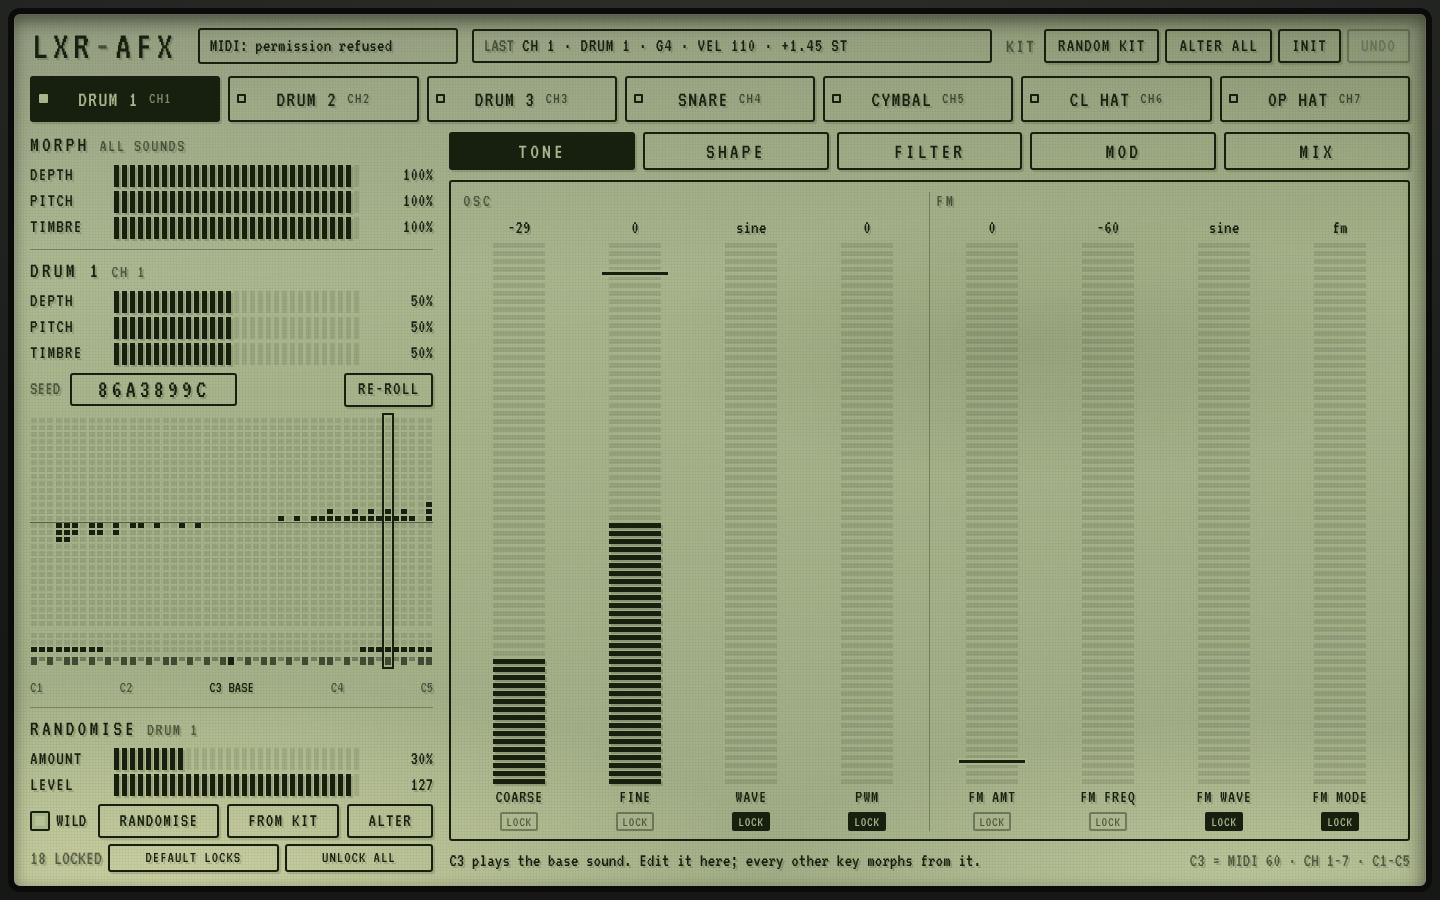
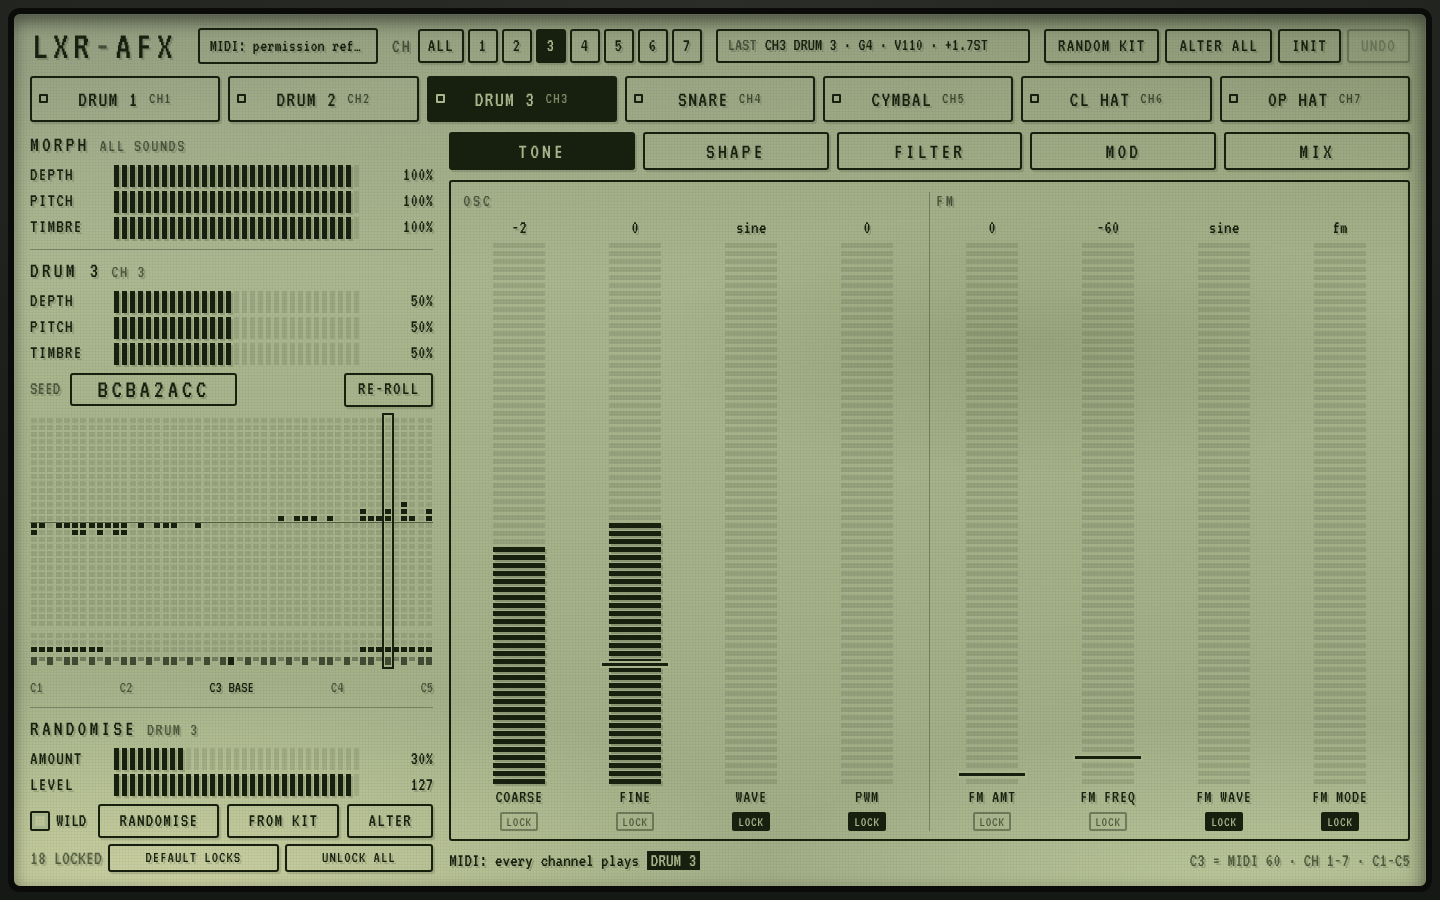
MIDI channel setter at the top: ALL, or one sound for every incoming note
Claude-Session: https://claude.ai/code/session_018ENZqU77miybkZNfffD9E3

diff --git a/app/main.js b/app/main.js
@@ -24,13 +24,14 @@ const S = {
   locks: defaultLocks(),
   rand: { amount: 30, wild: false },
   sel: 0, page: 0,
+  midiCh: 0, // 0: channels 1-7 play the seven sounds; 1-7: every note, on any channel, plays that sound
 };
 try {
   const d = JSON.parse(localStorage.getItem(STORE));
   if (d && d.values && d.values.length === NUM_PARAMS) {
     S.values = Uint8Array.from(d.values); S.defaults = Uint8Array.from(d.defaults || d.values);
     Object.assign(S.global, d.global); d.sounds.forEach((s, i) => Object.assign(S.sounds[i], s));
-    S.locks = new Set(d.locks); Object.assign(S.rand, d.rand); S.sel = d.sel | 0; S.page = d.page | 0;
+    S.locks = new Set(d.locks); Object.assign(S.rand, d.rand); S.sel = d.sel | 0; S.page = d.page | 0; S.midiCh = d.midiCh | 0;
   }
 } catch (e) { /* first visit, or storage blocked */ }
 let saveT = 0;
@@ -39,7 +40,7 @@ const save = () => {
   saveT = setTimeout(() => {
     try {
       localStorage.setItem(STORE, JSON.stringify({ values: [...S.values], defaults: [...S.defaults], global: S.global, sounds: S.sounds,
-        locks: [...S.locks], rand: S.rand, sel: S.sel, page: S.page }));
+        locks: [...S.locks], rand: S.rand, sel: S.sel, page: S.page, midiCh: S.midiCh }));
     } catch (e) { /* storage blocked: it just isn't kept */ }
   }, 300);
 };
@@ -98,6 +99,7 @@ function onMidi(e) {
   noteOn(ch, note, vel);
 }
 function noteOn(ch, note, vel) {
+  if (S.midiCh) ch = S.midiCh; // the channel setter: any channel plays the chosen sound
   if (ch < 1 || ch > 7) { showLastText(`CH ${ch} · ${noteName(note)} · not a sound channel (1-7)`); return; }
   if (note < LOW_NOTE || note > HIGH_NOTE) { showLastText(`CH ${ch} · ${noteName(note)} · outside C1-C5`); return; }
   play(ch - 1, note, vel);
@@ -114,6 +116,21 @@ async function startMidi() {
     midi.onstatechange = hook; hook();
   } catch (err) { midiStatus('MIDI: permission refused'); }
 }
+// the channel setter at the top: ALL, or one sound for every incoming note (choosing one also opens it in the editor)
+const chBtns = [0, 1, 2, 3, 4, 5, 6, 7].map((c) => {
+  const b = document.createElement('button'); b.type = 'button'; b.className = 'btn' + (c ? '' : ' all');
+  b.textContent = c ? String(c) : 'ALL'; b.setAttribute('role', 'radio');
+  b.title = c ? `Every note, on any MIDI channel, plays ${SOUNDS[c - 1].name}` : 'MIDI channels 1-7 play the seven sounds';
+  b.addEventListener('click', () => setMidiCh(c));
+  $('chsel').append(b);
+  return b;
+});
+function setMidiCh(c) {
+  S.midiCh = c; save();
+  chBtns.forEach((b, i) => b.setAttribute('aria-pressed', i === c));
+  if (c) select(c - 1);
+  detail(c ? `MIDI: every channel plays <em>${SOUNDS[c - 1].name}</em>` : 'MIDI: channels 1-7 play the seven sounds');
+}
 // for testing without a controller: afx.noteOn(channel, note, velocity) from the console
 window.afx = { noteOn: (ch, note, vel = 100) => noteOn(ch, note, vel) };
 
@@ -126,8 +143,8 @@ function showLastText(t) {
   const box = $('last'); box.classList.add('hit'); clearTimeout(lastT); lastT = setTimeout(() => box.classList.remove('hit'), 90);
 }
 function showLast(sound, note, vel, st) {
-  const p = note === BASE_NOTE ? 'BASE' : (st >= 0 ? '+' : '−') + Math.abs(st).toFixed(2) + ' ST';
-  showLastText(`CH ${sound + 1} · ${SOUNDS[sound].name} · ${noteName(note)} · VEL ${vel} · ${p}`);
+  const p = note === BASE_NOTE ? 'BASE' : (st >= 0 ? '+' : '−') + Math.abs(st).toFixed(1) + 'ST';
+  showLastText(`CH${sound + 1} ${SOUNDS[sound].name} · ${noteName(note)} · V${vel} · ${p}`);
   const led = soundBtns[sound].querySelector('i');
   led.classList.add('on'); clearTimeout(led._t); led._t = setTimeout(() => led.classList.remove('on'), 120);
 }
@@ -446,4 +463,5 @@ $('start-btn').addEventListener('click', async () => {
   startMidi();
 });
 select(clamp(S.sel, 0, 6));
+chBtns.forEach((b, i) => b.setAttribute('aria-pressed', i === S.midiCh));
 if (new URLSearchParams(location.search).has('nostart')) $('start').hidden = true; // screenshots

diff --git a/css/lcd.css b/css/lcd.css
@@ -49,11 +49,15 @@ h2 .dim { font-size: 18px; letter-spacing: .08em; }
 .logo { margin: 0; font-size: 40px; font-weight: 400; letter-spacing: .12em; line-height: 1; padding: 0 6px 0 2px; white-space: nowrap; }
 .logo span { color: var(--muted); }
 .lcdbox { border: 2px solid var(--ink); border-radius: 3px; padding: 4px 10px; min-height: 34px; display: flex; align-items: center; gap: 8px;
-  white-space: nowrap; overflow: hidden; text-overflow: ellipsis; font-size: 19px; }
-.midi { flex: 0 1 260px; min-width: 120px; display: block; line-height: 24px; }
+  white-space: nowrap; overflow: hidden; text-overflow: ellipsis; font-size: 18px; }
+.midi { flex: 0 1 180px; min-width: 100px; display: block; line-height: 24px; }
 .midi.live::before { content: "● "; }
 .last { flex: 1 1 auto; min-width: 0; }
-.last b { font-weight: 400; overflow: hidden; text-overflow: ellipsis; letter-spacing: .04em; }
+.chsel { display: flex; align-items: center; gap: 4px; }
+.chsel > .dim { margin-right: 2px; letter-spacing: .1em; }
+.chsel .btn { min-width: 30px; padding: 3px 5px; }
+.chsel .btn.all { padding: 3px 8px; }
+.last b { font-weight: 400; overflow: hidden; text-overflow: ellipsis; letter-spacing: 0; }
 .last.hit { background: var(--ink); color: var(--panel); text-shadow: none; }
 .last.hit .dim { color: var(--panel); opacity: .7; }
 .kitrand { display: flex; gap: 6px; align-items: center; }
@@ -148,6 +152,10 @@ h2 .dim { font-size: 18px; letter-spacing: .08em; }
   .logo { font-size: 34px; }
   .btn { font-size: 17px; padding: 3px 9px; }
   .kitrand > .dim { display: none; }
+  .chsel .btn { min-width: 26px; padding: 3px 3px; }
+  .last > .dim, .chsel > .dim { display: none; }
+  .top { gap: 10px; }
+  .logo { font-size: 30px; letter-spacing: .08em; }
   .hb { grid-template-columns: 64px 1fr 56px; font-size: 18px; }
   .snd { font-size: 20px; min-height: 42px; }
 }

diff --git a/index.html b/index.html
@@ -15,9 +15,9 @@
   <header class="top">
     <h1 class="logo">LXR<span>-</span>AFX</h1>
     <div class="lcdbox midi" id="midi-status" title="Web MIDI input">MIDI: off</div>
+    <div class="chsel" id="chsel" role="radiogroup" aria-label="MIDI channel: ALL routes channels 1-7 to the seven sounds; a number plays that sound from any channel" title="ALL: channels 1-7 play the seven sounds. 1-7: every note, on any channel, plays that sound"><span class="dim">CH</span></div>
     <div class="lcdbox last" id="last" aria-live="polite"><span class="dim">LAST</span> <b id="last-text">nothing played yet</b></div>
     <div class="kitrand" role="group" aria-label="Kit randomiser">
-      <span class="dim">KIT</span>
       <button class="btn" id="kit-rand" title="Every sound from a random built-in kit">RANDOM KIT</button>
       <button class="btn" id="kit-alter" title="Nudge every sound a little (10%)">ALTER ALL</button>
       <button class="btn" id="kit-init" title="Back to the firmware's init kit">INIT</button>

diff --git a/README.md b/README.md
@@ -6,6 +6,7 @@ A 7-voice MIDI drum instrument in the browser where every key plays a morphed va
 ![LXR-AFX at 1440 × 900](docs/screenshot.png)
 
 - **Seven sounds on seven MIDI channels**: Drum 1, Drum 2, Drum 3, Snare, Cymbal, Closed hat and Open hat on channels 1 to 7.
+  The CH setter at the top (ALL, 1-7) can send every note, on any channel, to one sound for testing.
   Keys C1 to C5 (C3 = MIDI 60), velocity used.
 - **Key morph**: C3 plays the sound as you made it. Every other key plays a variant, changing pitch and timbre, more the
   further it is from C3. Each key's variant is fixed by the sound's seed; **re-roll** for a new set. Depth, pitch and
